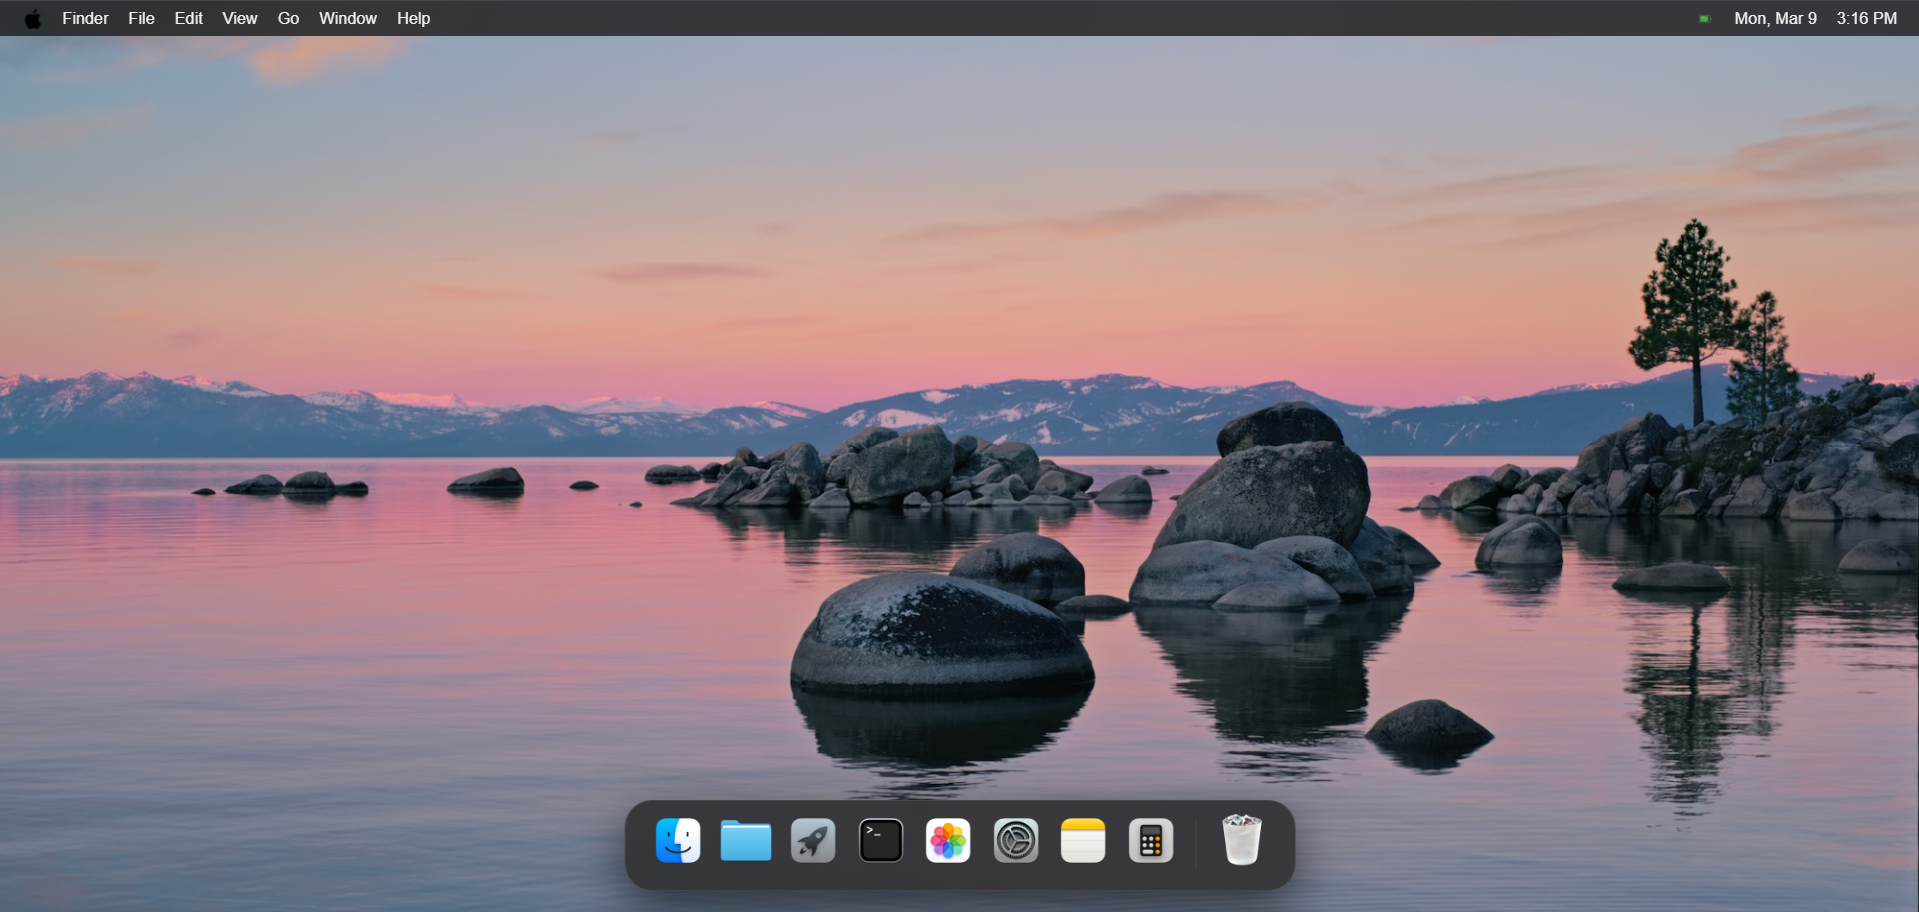
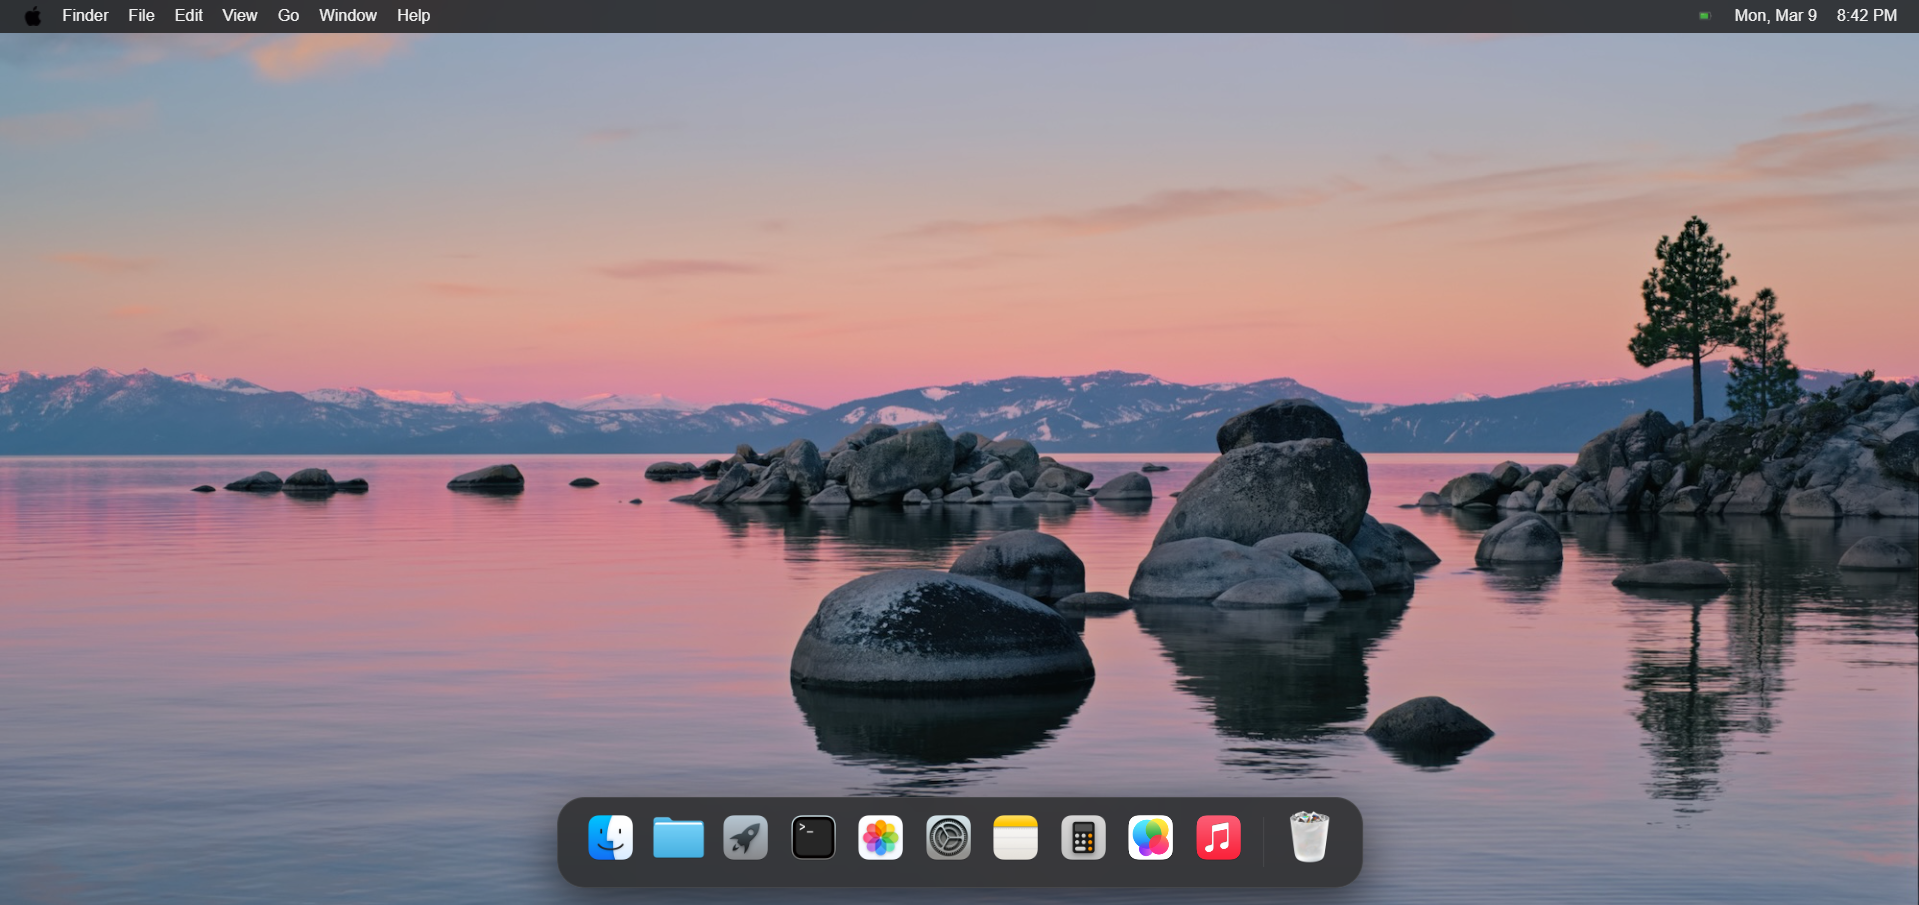
Add files via upload

diff --git a/style.css b/style.css
@@ -69,8 +69,8 @@ body {
 /* Desktop layer — windows live here */
 #desktop {
   position: fixed;
-  inset: 28px 0 0 0; /* below menu bar */
-  pointer-events: none; /* clicks pass through to windows themselves */
+  inset: 28px 0 0 0;
+  pointer-events: none;
 }
 
 #desktop .app-window {
@@ -144,7 +144,6 @@ body {
   transition: background 0.35s ease;
 }
 
-/* Each dock item: tooltip + icon + indicator stacked */
 .dock-item {
   position: relative;
   display: flex;
@@ -162,7 +161,6 @@ body {
   will-change: transform;
 }
 
-/* Tooltip above icon */
 .dock-tooltip {
   position: absolute;
   bottom: calc(100% + 10px);
@@ -186,7 +184,6 @@ body {
   transform: translateX(-50%) translateY(0);
 }
 
-/* Running indicator dot */
 .dock-indicator {
   width: 4px;
   height: 4px;
@@ -200,7 +197,6 @@ body {
   opacity: 1;
 }
 
-/* Divider before Trash */
 .dock-divider {
   width: 1px;
   height: 40px;
@@ -231,7 +227,7 @@ body {
   transition: box-shadow 0.2s ease, opacity 0.3s ease;
 }
 
-/* Apps with sidebar layouts need explicit height to fill window */
+/* Apps with sidebar layouts — fill height */
 .app-window[data-app="photos"],
 .app-window[data-app="notes"],
 .app-window[data-app="finder"],
@@ -240,6 +236,7 @@ body {
   width: 680px;
 }
 
+/* Calculator — wraps tightly around buttons */
 .app-window[data-app="calculator"] {
   height: fit-content;
   width: fit-content;
@@ -251,18 +248,34 @@ body {
   max-width: calc(100vw - 8px) !important;
 }
 
-@keyframes windowOpen {
-  from {
-    opacity: 0;
-    transform: scale(0.88);
-  }
-  to {
-    opacity: 1;
-    transform: scale(1);
-  }
+/* Music — sidebar + main panel */
+.app-window[data-app="music"] {
+  width: 620px;
+  height: 420px;
+  min-width: unset;
 }
 
-/* Focused window gets stronger shadow */
+.app-window[data-app="music"] .content {
+  padding: 0;
+  overflow: hidden;
+}
+.app-window[data-app="game"] {
+  width: 700px;
+  height: 360px;
+  min-width: unset;
+}
+
+.app-window[data-app="game"] .content {
+  padding: 0;
+  overflow: hidden;
+  cursor: pointer !important;
+}
+
+@keyframes windowOpen {
+  from { opacity: 0; transform: scale(0.88); }
+  to   { opacity: 1; transform: scale(1);    }
+}
+
 .app-window.focused {
   box-shadow: 0 36px 70px rgba(0, 0, 0, 0.45);
 }
@@ -271,7 +284,6 @@ body {
   box-shadow: 0 36px 70px rgba(0, 0, 0, 0.75);
 }
 
-/* Minimized — hidden but keeps state */
 .app-window.minimized {
   opacity: 0;
   transform: scale(0.5) translateY(80px);
@@ -279,23 +291,21 @@ body {
   transition: opacity 0.35s ease, transform 0.35s cubic-bezier(0.16, 1, 0.3, 1);
 }
 
-/* Maximized */
 .app-window.maximized {
   top: 4px !important;
   left: 4px !important;
   width: calc(100vw - 8px) !important;
   max-width: calc(100vw - 8px) !important;
-  height: calc(100vh - 110px) !important; /* leaves room for dock */
+  height: calc(100vh - 110px) !important;
   border-radius: 14px;
   transition: var(--transition-smooth);
 }
 
-/* Mobile layout */
+/* Mobile */
 @media (max-width: 600px) {
-  /* Menu bar — only Apple + time */
   .menu-left span:not(:first-child) { display: none; }
   .menu-right span:not(#date):not(#time) { display: none; }
-  #date { display: none; } /* too cramped, just show time */
+  #date { display: none; }
 
   .dock {
     gap: 4px;
@@ -353,10 +363,7 @@ body {
   transition: filter 0.15s ease;
 }
 
-.app-window .btn:hover {
-  filter: brightness(0.85);
-}
-
+.app-window .btn:hover { filter: brightness(0.85); }
 .app-window .btn.close { background: #ff5f56; }
 .app-window .btn.min   { background: #ffbd2e; }
 .app-window .btn.max   { background: #27c93f; }
@@ -369,7 +376,7 @@ body {
   cursor: url('assets/icons/cursors/default.png'), auto;
   flex: 1;
   text-align: center;
-  margin-right: 44px; /* optical center — offsets the controls width */
+  margin-right: 44px;
 }
 
 /* WINDOW CONTENT */
@@ -380,13 +387,13 @@ body {
   color: var(--text-primary);
   transition: color 0.35s ease;
   cursor: url('assets/icons/cursors/text.png'), text;
-  min-height: 0; /* critical — lets flex child scroll instead of growing */
+  min-height: 0;
 }
 
-/* Calculator — centered, dark bg fills window */
+/* Calculator content */
 .app-window[data-app="calculator"] .content {
   display: flex;
-background: var(--calc-bg);
+  background: #1c1c1e;
   padding: 0;
 }
 
@@ -397,13 +404,34 @@ background: var(--calc-bg);
   justify-content: center;
 }
 
-/* These apps manage their own colors and layout entirely */
-.app-window[data-app="terminal"] .content *,
+/* Apps that manage their own colors */
 .app-window[data-app="photos"] .content *,
 .app-window[data-app="notes"] .content *,
-.app-window[data-app="calculator"] .content *,
 .app-window[data-app="settings"] .content * {
   color: unset;
+}
+
+/* Terminal — always dark, force Catppuccin white */
+.app-window[data-app="terminal"] .content,
+.app-window[data-app="terminal"] .content * {
+  color: #cdd6f4 !important;
+}
+
+/* Calculator — always dark, force white */
+.app-window[data-app="calculator"] .content,
+.app-window[data-app="calculator"] .content * {
+  color: #ffffff !important;
+}
+
+/* Restore calculator button-specific colors */
+.app-window[data-app="calculator"] .btn-calc.gray,
+.app-window[data-app="calculator"] .btn-calc.gray * {
+  color: #000000 !important;
+}
+
+.app-window[data-app="calculator"] .btn-calc.orange,
+.app-window[data-app="calculator"] .btn-calc.orange * {
+  color: #ffffff !important;
 }
 
 /* Generic text color for simple apps */
@@ -431,7 +459,7 @@ background: var(--calc-bg);
 .app-window .content::-webkit-scrollbar-thumb { background: rgba(128,128,128,0.35); border-radius: 3px; }
 .app-window .content::-webkit-scrollbar-thumb:hover { background: rgba(128,128,128,0.6); }
 
-/* CLICK RIPPLE EFFECT */
+/* CLICK RIPPLE */
 .click-effect {
   position: fixed;
   width: 12px;
@@ -450,7 +478,6 @@ background: var(--calc-bg);
   100% { transform: translate(-50%, -50%) scale(1);   opacity: 0; }
 }
 
-/* REDUCED MOTION SUPPORT */
 @media (prefers-reduced-motion: reduce) {
   *, *::before, *::after {
     animation-duration: 0.01ms !important;

diff --git a/js/windowManager.js b/js/windowManager.js
@@ -30,7 +30,6 @@ function centerWindow(win) {
     const maxW   = window.innerWidth  - 16;
     const maxH   = window.innerHeight - menuH - dockH - 16;
 
-    // Cap window size before centering
     if (win.offsetWidth  > maxW) win.style.width  = maxW + 'px';
     if (win.offsetHeight > maxH) win.style.height = maxH + 'px';
 
@@ -94,8 +93,8 @@ function bindControls(win, appFolder) {
     const maxLeft = window.innerWidth  - win.offsetWidth;
     const maxTop  = window.innerHeight - win.offsetHeight - dockH;
 
-    win.style.left = `${Math.max(0,       Math.min(maxLeft, e.clientX - ox))}px`;
-    win.style.top  = `${Math.max(menuH,   Math.min(maxTop,  e.clientY - oy))}px`;
+    win.style.left = `${Math.max(0,     Math.min(maxLeft, e.clientX - ox))}px`;
+    win.style.top  = `${Math.max(menuH, Math.min(maxTop,  e.clientY - oy))}px`;
   });
 
   document.addEventListener('mouseup', () => dragging = false);
@@ -107,6 +106,14 @@ const NO_JS_APPS = ['finder', 'trash', 'terminal', 'launchpad', 'folder'];
 function openAppWindow(url, appName) {
   const appFolder = url.split('/')[1];
 
+  // Single instance — if already open, focus it (unminimize if needed)
+  const existing = document.querySelector(`.app-window[data-app="${appFolder}"]`);
+  if (existing) {
+    existing.classList.remove('minimized');
+    focusWindow(existing);
+    return;
+  }
+
   if (!document.getElementById(`css-${appFolder}`)) {
     const link = document.createElement('link');
     link.rel = 'stylesheet';
@@ -114,27 +121,28 @@ function openAppWindow(url, appName) {
     link.id = `css-${appFolder}`;
     document.head.appendChild(link);
   }
-fetch(url)
-  .then(r => r.text())
-  .then(html => {
-    const win = createWindow(appName, html, appFolder);
-    updateIndicator(appFolder, true);
 
-    // Sync settings UI now that the HTML is in the DOM
-    if (appFolder === 'settings') syncSettingsUI();
+  fetch(url)
+    .then(r => r.text())
+    .then(html => {
+      const win = createWindow(appName, html, appFolder);
+      updateIndicator(appFolder, true);
 
-    if (NO_JS_APPS.includes(appFolder)) return;
+      // Sync settings UI now that the HTML is in the DOM
+      if (appFolder === 'settings') syncSettingsUI();
 
-    if (!document.getElementById(`js-${appFolder}`)) {
-      const script = document.createElement('script');
-      script.src = `apps/${appFolder}/${appFolder}.js`;
-      script.id  = `js-${appFolder}`;
-      script.onload = () => callInit(appFolder, win);
-      document.body.appendChild(script);
-    } else {
-      callInit(appFolder, win);
-    }
-  });
+      if (NO_JS_APPS.includes(appFolder)) return;
+
+      if (!document.getElementById(`js-${appFolder}`)) {
+        const script = document.createElement('script');
+        script.src = `apps/${appFolder}/${appFolder}.js`;
+        script.id  = `js-${appFolder}`;
+        script.onload = () => callInit(appFolder, win);
+        document.body.appendChild(script);
+      } else {
+        callInit(appFolder, win);
+      }
+    });
 }
 
 function callInit(appFolder, win) {

diff --git a/index.html b/index.html
@@ -83,6 +83,19 @@
       <img src="assets/icons/window-icons/calculator.png" alt="Calculator">
       <div class="dock-indicator"></div>
     </div>
+
+<div class="dock-item" data-app="game" data-name="AdarshRun">
+  <div class="dock-tooltip">AdarshRun</div>
+  <img src="assets/icons/window-icons/game.png" alt="Game">
+  <div class="dock-indicator"></div>
+</div>
+
+<div class="dock-item" data-app="music" data-name="Music">
+  <div class="dock-tooltip">Music</div>
+  <img src="assets/icons/window-icons/music.png" alt="Music">
+  <div class="dock-indicator"></div> 
+</div>
+
     <!-- Divider before Trash -->
     <div class="dock-divider"></div>
 

diff --git a/readme.md b/readme.md
@@ -82,7 +82,19 @@ Standard mode (circular buttons) and scientific mode (pill buttons, fullscreen o
 
 ![Calculator](assets/screenshots/calculator.png)
 
-### 9. Trash
+### 9. Game
+A custom endless runner built into the portfolio. Features a pixel-art character (that looks suspiciously like the owner), parallax mountain backgrounds, Catppuccin dark theme, and four obstacle types — spikes, walls, and hanging pipes that force you to crouch. Double jump to clear tall walls. Night mode kicks in at 500m. High score saved locally.
+
+**Controls:** `Space` / `↑` to jump, double-tap to double jump, `↓` / `S` to crouch.
+
+![AdarshRun](assets/screenshots/game.png)
+
+### 10. Music Player
+Full-screen library view (sidebar playlist + album art) and a persistent mini player (floating, bottom-left). ID3 tag metadata and album art loaded automatically from local files.
+
+![Music Player](assets/screenshots/music.png)
+
+### 11. Trash
 It's empty. Like his brain.
 
 ![Trash](assets/screenshots/trash.png)
